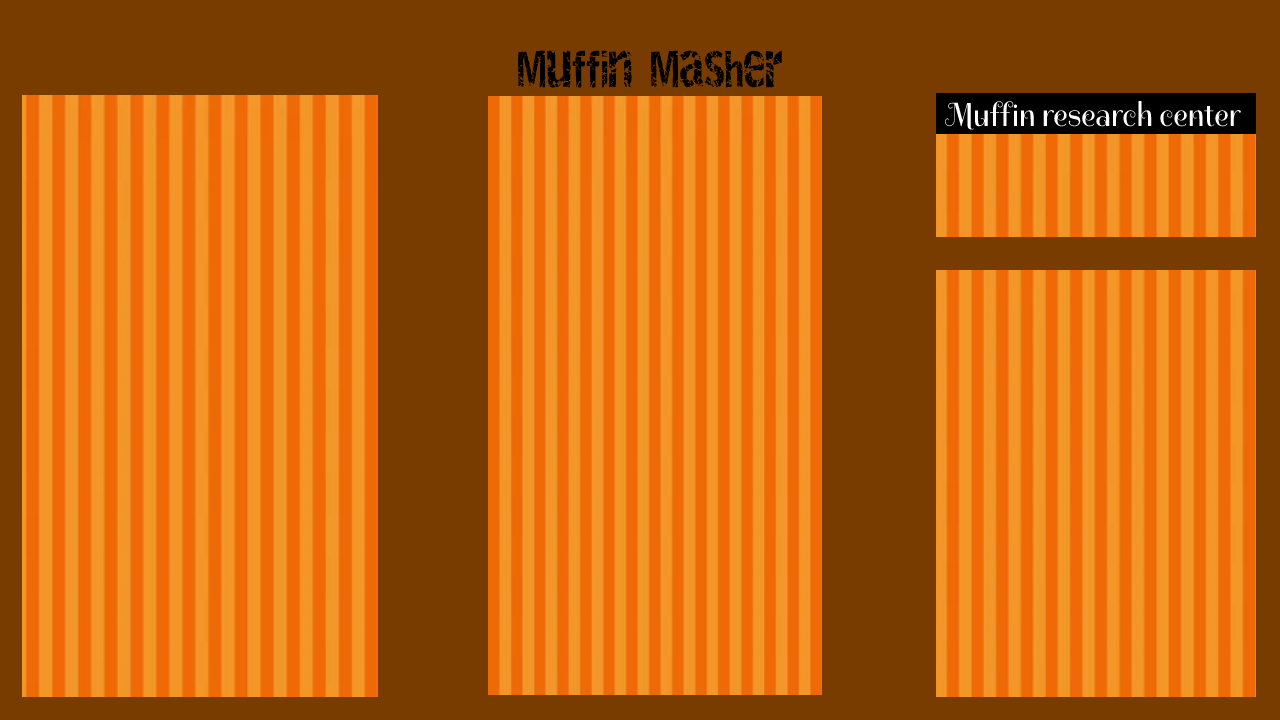
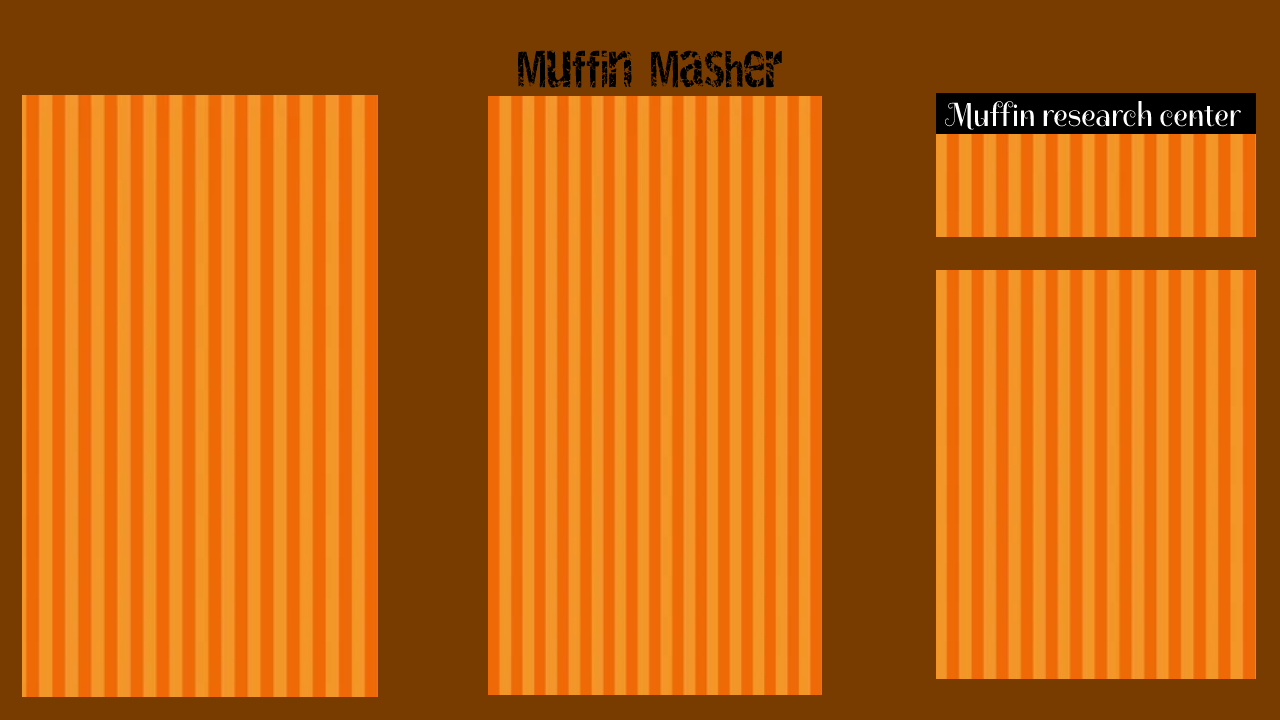
Border and change to white

Changed region(s): [[0.7188, 0.9167, 1.0, 0.9778]]

diff --git a/main.js b/main.js
@@ -7,15 +7,19 @@ cnv.height = 850;
 
 let background = document.getElementById("background")
 let muffin = document.getElementById("muffin")
+let baker = document.getElementById("baker")
 let muffinAmount = 0
 let bakerColor = "grey"
 let cursorColor = "grey"
 let farmColor = "grey"
-let minecolor = "grey"
+let mineColor = "grey"
 let factoryColor = "grey"
 let bankColor = "grey"
 let templeColor = "grey"
-let 
+let alchemyColor = "grey"
+let tMachineColor = "grey"
+let borderY = 369
+
 
 
 requestAnimationFrame(loop)
@@ -43,18 +47,66 @@ function loop(){
     bakerColor = "white"
  } else if (muffinAmount < 30)
  bakerColor = "grey"
+ ctx.drawImage(baker, 1150,375, 50, 50)
  //  Farm
- ctx.fillStyle = "rgb(125,125,125)"
+ ctx.fillStyle = farmColor
  ctx.fillRect(914, 429, 313, 50) 
+ if (muffinAmount >= 40){
+   farmColor = "white"
+ } else if (muffinAmount < 40)
+ farmColor = "grey"
  //  Mine
- ctx.fillStyle = "rgb(125,125,125)"
+ ctx.fillStyle = mineColor
  ctx.fillRect(914, 484, 313, 50)
+ if (muffinAmount >= 40){
+   mineColor = "white"
+ } else if (muffinAmount < 40)
+ mineColor = "grey"
  //  Factory
- ctx.fillStyle = "rgb(125,125,125)"
+ ctx.fillStyle = factoryColor
  ctx.fillRect(914, 539, 313, 50) 
+ if (muffinAmount >= 40){
+   factoryColor = "white"
+ } else if (muffinAmount < 40)
+ factoryColor = "grey"
  //  Bank
- ctx.fillStyle = "rgb(125,125,125)"
+ ctx.fillStyle = bankColor
  ctx.fillRect(914, 594, 313, 50) 
+ if (muffinAmount >= 40){
+   bankColor = "white"
+ } else if (muffinAmount < 40)
+ bankColor = "grey"
+ //  Temple
+ ctx.fillStyle = templeColor
+ ctx.fillRect(914, 649, 313, 50) 
+ if (muffinAmount >= 40){
+   templeColor = "white"
+ } else if (muffinAmount < 40)
+ templeColor = "grey"
+ // Alchemy Lab
+ ctx.fillStyle = alchemyColor
+ ctx.fillRect(914, 704, 313, 50)  
+ if (muffinAmount >= 40){
+   alchemyColor = "white"
+ } else if (muffinAmount < 40)
+ alchemyColor = "grey"
+ // Time Machine 
+ ctx.fillStyle = tMachineColor
+ ctx.fillRect(914, 759, 313, 50)  
+ if (muffinAmount >= 40){
+   tMachineColor = "white"
+ } else if (muffinAmount < 40)
+ tMachineColor = "grey"
+ //  Border
+ ctx.fillStyle = "black"
+ ctx.fillRect(914, 369, 313, 5)
+ ctx.fillRect(914, 424, 313, 5)
+ ctx.fillRect(914, 479, 313, 5)
+ ctx.fillRect(914, 534, 313, 5)
+ ctx.fillRect(914, 589, 313, 5)
+ ctx.fillRect(914, 644, 313, 5)
+ ctx.fillRect(914, 699, 313, 5)
+ ctx.fillRect(914, 754, 313, 5)
  requestAnimationFrame(loop)
 }
 

diff --git a/index.html b/index.html
@@ -13,6 +13,7 @@
 
     <img id="background" src="img/background.png" style="display:none">
     <img id="muffin" src="img/Muffin.png" style="display:none">
+    <img id="baker" src="img/Baker.png" style="display:none">
     
 
 

diff --git a/style.css b/style.css
@@ -1,8 +1,5 @@
-
 body{
     text-align:center;
 }
 
-img{
-    size:30px;
-}
+
